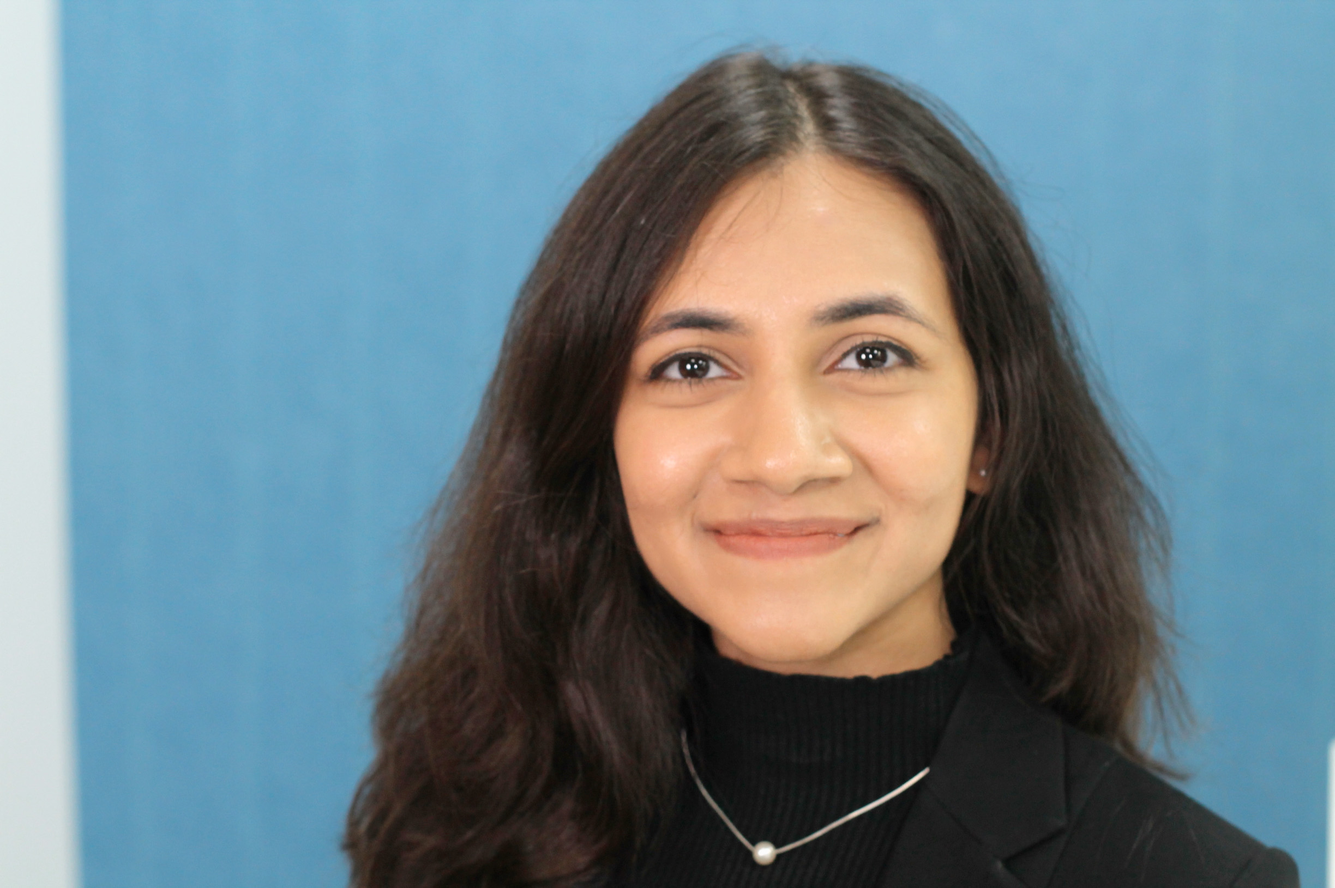
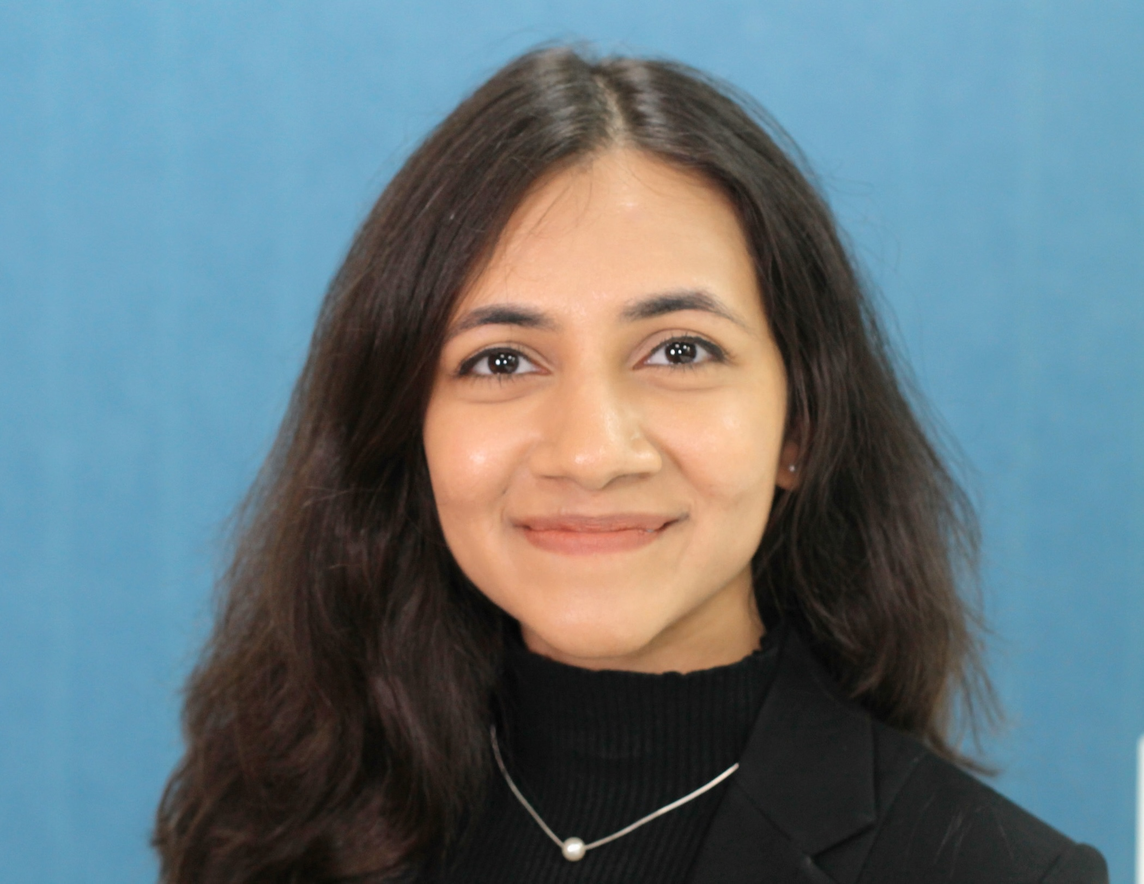
add language to staff card

diff --git a/src/styles/staffCard.css b/src/styles/staffCard.css
@@ -11,24 +11,31 @@
 
 .staffCard-container-item{
     width:30%;
-    height: 200px;
+    height: 230px;
     display: flex;
     border: 1px #f2f2f2 solid;
-    justify-content: center;
+    
     align-items: center;
     background-color: #fff;
 }
 .staffCard-item-img{
-    margin-right: 40px;
+    width: 40%;
+    height: 100%;
+    display: flex;
+    align-items: center;
+    justify-content: center;
+
 }
 
 .staffCard-item-img>img{
-    width: 120px;
+    width: 85%;
     border-radius: 50%;
     aspect-ratio: 1 / 1;
+    object-fit: cover;
 }
 
 .staffCard-item-content{
+    width: 65%;
     display: flex;
     flex-direction: column;
     align-items: center;
@@ -38,14 +45,15 @@
     margin: 0;
     font-family: "Acme", sans-serif;
     font-size: 20px;
-    margin-bottom: 18px;
+    text-align: center;
+    line-height: 1.4;
 }
 
 .staffCard-item-content>h4{
     margin: 0;
     font-family: Arial, Helvetica, sans-serif;
     font-size: 18px;
-    margin-bottom: 15px;
+    margin-top: 13px;
 }
 
 .staffCard-item-content>h5{
@@ -53,7 +61,19 @@
     font-family: Arial, Helvetica, sans-serif;
     font-size: 15px;
     font-weight: 400;
-    margin-bottom: 20px;
+    margin-top: 10px;
+    text-align: center;
+}
+
+.staffCard-item-content>h6{
+    width: 80%;
+    margin: 0;
+    font-family: Arial, Helvetica, sans-serif;
+    font-size: 12px;
+    font-weight: 400;
+    margin-top: 10px;
+    text-align: center;
+
 }
 
 .staffCard-item-content>button{
@@ -63,6 +83,9 @@
     height: 30px;
     padding: 0 20px;
     cursor: pointer;
+    border-radius: 5px;
+    font-size: 0.9rem;
+    margin-top: 16px;
 }
 
 .staffCard-container.hide {

diff --git a/src/config/contactContentConfig.js b/src/config/contactContentConfig.js
@@ -114,6 +114,7 @@ export const support = [
     image: zarin,
     button: "Book a Meeting",
     link: "https://calendar.app.google/TwZ9vFHnz51zZJiX6",
+    language: "Bengali, English, Japanese, Hindi, Urdu",
   },
   {
     title: "Student Support Team (Higher Education)",
@@ -122,6 +123,7 @@ export const support = [
     image: giulia,
     button: "Book a Meeting",
     link: "https://calendar.app.google/1U1EhkTpQXN6T45TA",
+    language: "English, Spanish, and Italian",
   },
   {
     title: "Student Support Team (Scheduling Team)",
@@ -130,6 +132,7 @@ export const support = [
     image: darshwini,
     button: "Book a Meeting",
     link: "https://calendar.app.google/iHyHRydzvedKH9r17 ",
+    language: "English, Mauritian Creole, French, Hindi",
   },
   {
     title: "Student Support Team (Higher Education)",
@@ -138,6 +141,7 @@ export const support = [
     image: jinal,
     button: "Book a Meeting",
     link: "https://calendar.app.google/3bvraWZDRSymHfXt5 ",
+    language: "English, Hindi, Gujarati",
   },
   {
     title: "Schedules Team",

diff --git a/src/components/StaffCard.jsx b/src/components/StaffCard.jsx
@@ -13,6 +13,9 @@ function StaffCard({ staffCard, showAll }) {
             <h3>{staff.title}</h3>
             <h4>{staff.name}</h4>
             <h5>{staff.campus}</h5>
+            <h6 style={{ display: staff.language ? "block" : "none" }}>
+              {staff.language}
+            </h6>
             <h5 style={{ display: staff.email ? "block" : "none" }}>
               {staff.email}
             </h5>
